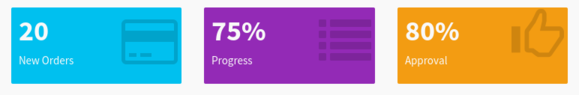
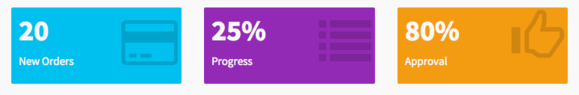
Use new dynamic valueBox syntax

diff --git a/structure.html b/structure.html
@@ -457,7 +457,7 @@ body &lt;-<span class="st"> </span><span class="kw">dashboardBody</span>(
 <h3>valueBox</h3>
 <p>There is a special kind of box that is used for displaying simple numeric or text values, with an icon. Here are some examples:</p>
 <p><img src="images/body-valueboxes.png" alt="Value boxes" /></p>
-<p>The code to generate these <code>valueBox</code>es is below. Since the content of a <code>valueBox</code> will usually be dynamic, the examples below show a few different ways to include dynamic values in a <code>valueBox</code>. The different possible colors are shown <a href="appearance.html#statuses-and-colors">here</a>.</p>
+<p>The code to generate these <code>valueBox</code>es is below. Since the content of a <code>valueBox</code> will usually be dynamic, <strong>shinydashboard</strong> contains the helper functions <code>valueBoxOutput</code> and <code>renderValueBox</code> for dynamic content. The different possible colors are shown <a href="appearance.html#statuses-and-colors">here</a>.</p>
 <pre class="sourceCode r"><code class="sourceCode r"><span class="kw">library</span>(shinydashboard)
 
 ui &lt;-<span class="st"> </span><span class="kw">dashboardPage</span>(
@@ -465,31 +465,30 @@ ui &lt;-<span class="st"> </span><span class="kw">dashboardPage</span>(
   <span class="kw">dashboardSidebar</span>(),
   <span class="kw">dashboardBody</span>(
     <span class="kw">fluidRow</span>(
-      <span class="kw">valueBox</span>(
-        <span class="co"># The value comes from the server via uiOutput</span>
-        <span class="kw">uiOutput</span>(<span class="st">&quot;orderNum&quot;</span>), <span class="st">&quot;New Orders&quot;</span>, <span class="dt">icon =</span> <span class="kw">icon</span>(<span class="st">&quot;credit-card&quot;</span>)
-      ),
+      <span class="co"># A static valueBox</span>
+      <span class="kw">valueBox</span>(<span class="dv">10</span> *<span class="st"> </span><span class="dv">2</span>, <span class="st">&quot;New Orders&quot;</span>, <span class="dt">icon =</span> <span class="kw">icon</span>(<span class="st">&quot;credit-card&quot;</span>)),
 
-      <span class="kw">valueBox</span>(
-        <span class="co"># The icon can also be a uiOutput</span>
-        <span class="kw">uiOutput</span>(<span class="st">&quot;progress&quot;</span>), <span class="st">&quot;Progress&quot;</span>, <span class="dt">icon =</span> <span class="kw">uiOutput</span>(<span class="st">&quot;progressIcon&quot;</span>),
-        <span class="dt">color =</span> <span class="st">&quot;purple&quot;</span>
-      ),
+      <span class="co"># Dynamic valueBoxes</span>
+      <span class="kw">valueBoxOutput</span>(<span class="st">&quot;progressBox&quot;</span>),
 
-      <span class="co"># An entire box can be in a uiOutput</span>
-      <span class="kw">uiOutput</span>(<span class="st">&quot;approvalBox&quot;</span>)
+      <span class="kw">valueBoxOutput</span>(<span class="st">&quot;approvalBox&quot;</span>)
+    ),
+    <span class="kw">fluidRow</span>(
+      <span class="co"># Clicking this will increment the progress amount</span>
+      <span class="kw">box</span>(<span class="dt">width =</span> <span class="dv">4</span>, <span class="kw">actionButton</span>(<span class="st">&quot;count&quot;</span>, <span class="st">&quot;Increment progress&quot;</span>))
     )
   )
 )
 
 server &lt;-<span class="st"> </span>function(input, output) {
-  output$orderNum &lt;-<span class="st"> </span><span class="kw">renderText</span>({ <span class="dv">10</span>*<span class="dv">2</span> })
+  output$progressBox &lt;-<span class="st"> </span><span class="kw">renderValueBox</span>({
+    <span class="kw">valueBox</span>(
+      <span class="kw">paste0</span>(<span class="dv">25</span> +<span class="st"> </span>input$count, <span class="st">&quot;%&quot;</span>), <span class="st">&quot;Progress&quot;</span>, <span class="dt">icon =</span> <span class="kw">icon</span>(<span class="st">&quot;list&quot;</span>),
+      <span class="dt">color =</span> <span class="st">&quot;purple&quot;</span>
+    )
+  })
 
-  output$progress &lt;-<span class="st"> </span><span class="kw">renderText</span>({ <span class="st">&quot;75%&quot;</span> })
-
-  output$progressIcon &lt;-<span class="st"> </span><span class="kw">renderUI</span>({ <span class="kw">icon</span>(<span class="st">&quot;list&quot;</span>) })
-
-  output$approvalBox &lt;-<span class="st"> </span><span class="kw">renderUI</span>({
+  output$approvalBox &lt;-<span class="st"> </span><span class="kw">renderValueBox</span>({
     <span class="kw">valueBox</span>(
       <span class="st">&quot;80%&quot;</span>, <span class="st">&quot;Approval&quot;</span>, <span class="dt">icon =</span> <span class="kw">icon</span>(<span class="st">&quot;thumbs-up&quot;</span>, <span class="dt">lib =</span> <span class="st">&quot;glyphicon&quot;</span>),
       <span class="dt">color =</span> <span class="st">&quot;yellow&quot;</span>
